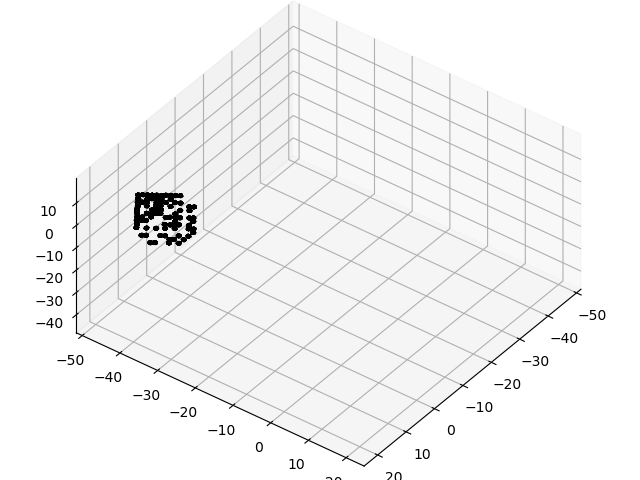
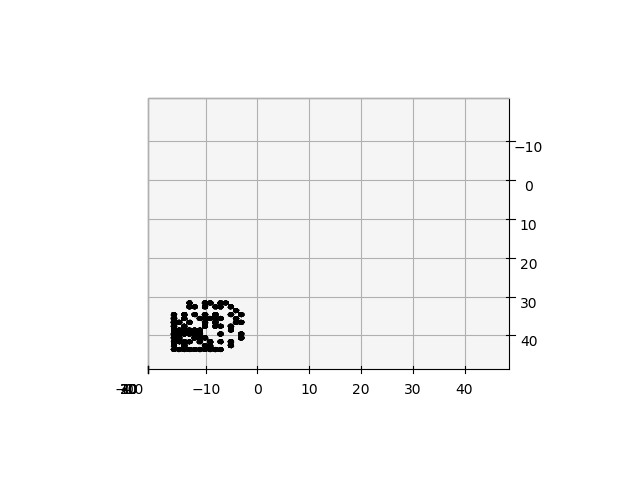
rotate using numpy-stl instead of matplotlib view angles

diff --git a/src/dmxread.py b/src/dmxread.py
@@ -7,9 +7,12 @@ from stl import mesh
 from mpl_toolkits import mplot3d
 from matplotlib import pyplot
 
+import math
+
 from pylibdmtx.pylibdmtx import decode
 import cv2
 
+offset = [37,55]
 
 # Create a new plot
 figure = pyplot.figure()
@@ -17,6 +20,11 @@ axes = mplot3d.Axes3D(figure, proj_type = 'ortho')
 
 # Load the STL files and add the vectors to the plot
 your_mesh = mesh.Mesh.from_file('../stl/extractedCode.stl')
+
+your_mesh.rotate([0,0,1],math.radians(-offset[1]))
+your_mesh.rotate([1,0,0],math.radians(-offset[0]))
+
+
 axes.add_collection3d(mplot3d.art3d.Poly3DCollection(your_mesh.vectors, facecolors='black', edgecolors='black'))
 
 # Auto scale to the mesh size
@@ -24,7 +32,7 @@ scale = your_mesh.points.flatten(-1)
 axes.auto_scale_xyz(scale, scale, scale)
 # axes.autoscale()
 
-axes.view_init(elev=55, azim=37)
+axes.view_init(elev=90, azim=0)
 
 # Show the plot to the screen
 # pyplot.show(figure)
